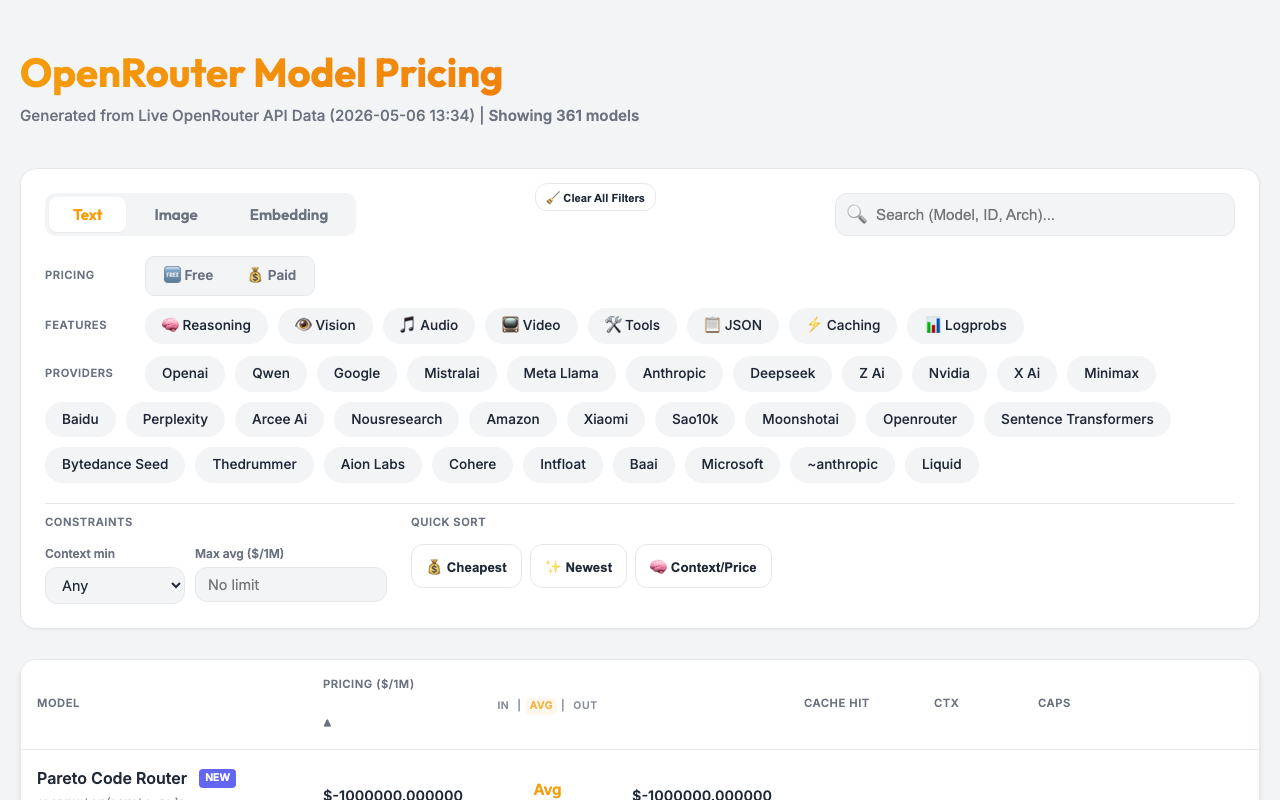
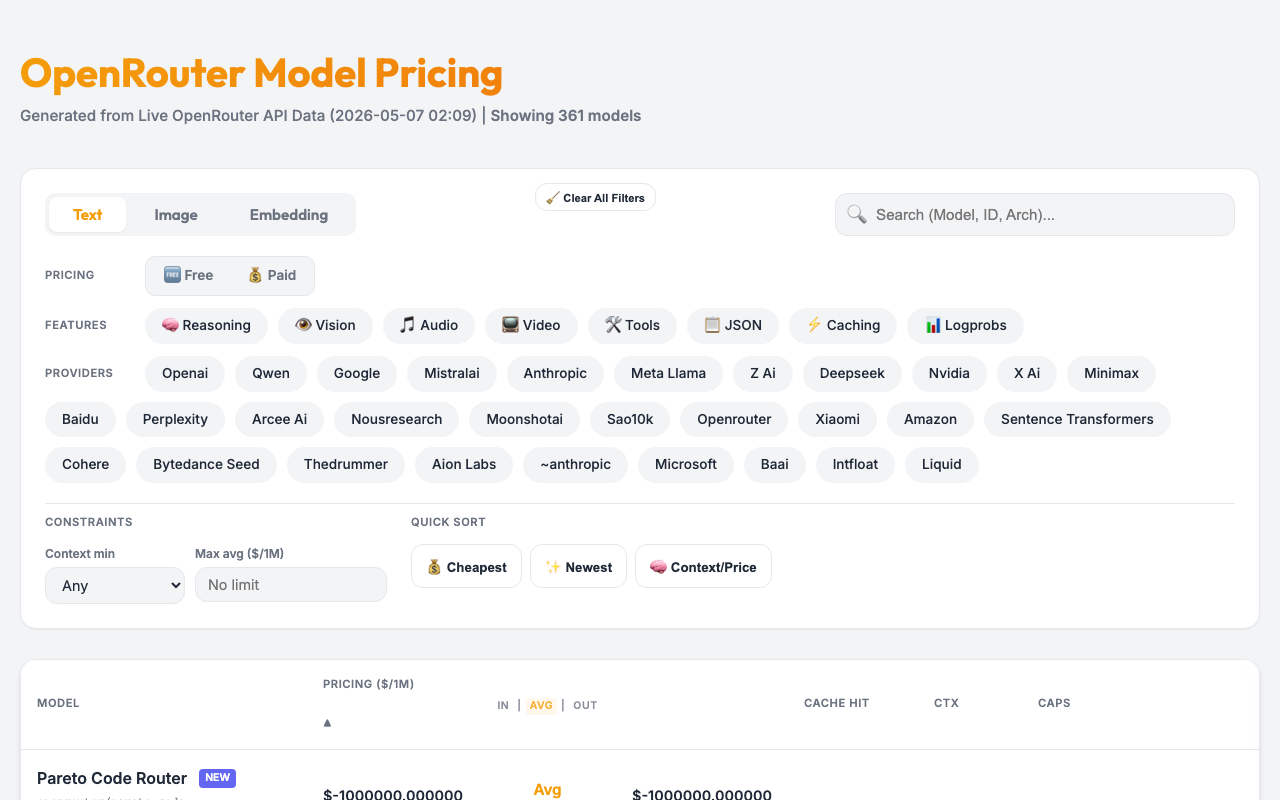
chore: automated pricing update (2026-05-07 02:09:29)
🔄 Changed Models (12): deepseek/deepseek-v3.2-speciale, moonshotai/kimi-k2.6, qwen/qwen3-coder-next, x-ai/grok-3, x-ai/grok-3-beta, x-ai/grok-3-mini, x-ai/grok-3-mini-beta, x-ai/grok-4, x-ai/grok-4-fast, x-ai/grok-4.1-fast, x-ai/grok-code-fast-1, ~moonshotai/kimi-latest

diff --git a/docs/index.html b/docs/index.html
@@ -668,7 +668,7 @@
     <div class="container">
         <header>
             <h1>OpenRouter Model Pricing</h1>
-            <div class="meta">Generated from Live OpenRouter API Data (2026-05-06 13:34)</div>
+            <div class="meta">Generated from Live OpenRouter API Data (2026-05-07 02:09)</div>
         </header>
 
         <div class="controls">
@@ -1438,7 +1438,7 @@
       "name": "MoonshotAI Kimi Latest",
       "created": 1777318428,
       "description": "This model always redirects to the latest model in the MoonshotAI Kimi family.",
-      "context_length": 262142,
+      "context_length": 262144,
       "architecture": {
         "modality": "text+image->text",
         "input_modalities": [
@@ -1452,13 +1452,13 @@
         "instruct_type": null
       },
       "pricing": {
-        "prompt": "0.00000074",
-        "completion": "0.00000349",
-        "input_cache_read": "0.00000014"
+        "prompt": "0.00000075",
+        "completion": "0.0000035",
+        "input_cache_read": "0.00000015"
       },
       "top_provider": {
-        "context_length": 262142,
-        "max_completion_tokens": 262142,
+        "context_length": 262144,
+        "max_completion_tokens": 16384,
         "is_moderated": false
       },
       "per_request_limits": null,
@@ -2688,7 +2688,7 @@
       "name": "MoonshotAI: Kimi K2.6",
       "created": 1776699402,
       "description": "Kimi K2.6 is Moonshot AI's next-generation multimodal model, designed for long-horizon coding, coding-driven UI/UX generation, and multi-agent orchestration. It handles complex end-to-end coding tasks across Python, Rust, and Go, and...",
-      "context_length": 262142,
+      "context_length": 262144,
       "architecture": {
         "modality": "text+image->text",
         "input_modalities": [
@@ -2702,13 +2702,13 @@
         "instruct_type": null
       },
       "pricing": {
-        "prompt": "0.00000074",
-        "completion": "0.00000349",
-        "input_cache_read": "0.00000014"
+        "prompt": "0.00000075",
+        "completion": "0.0000035",
+        "input_cache_read": "0.00000015"
       },
       "top_provider": {
-        "context_length": 262142,
-        "max_completion_tokens": 262142,
+        "context_length": 262144,
+        "max_completion_tokens": 16384,
         "is_moderated": false
       },
       "per_request_limits": null,
@@ -5692,7 +5692,7 @@
         "instruct_type": null
       },
       "pricing": {
-        "prompt": "0.00000012",
+        "prompt": "0.00000011",
         "completion": "0.0000008",
         "input_cache_read": "0.00000007"
       },
@@ -7893,9 +7893,9 @@
         "instruct_type": null
       },
       "pricing": {
-        "prompt": "0.0000004",
-        "completion": "0.0000012",
-        "input_cache_read": "0.0000002"
+        "prompt": "0.000000287",
+        "completion": "0.000000431",
+        "input_cache_read": "0.000000058"
       },
       "top_provider": {
         "context_length": 163840,
@@ -8228,7 +8228,7 @@
       },
       "supported_voices": null,
       "knowledge_cutoff": null,
-      "expiration_date": "2026-06-01",
+      "expiration_date": "2026-05-15",
       "links": {
         "details": "/api/v1/models/x-ai/grok-4.1-fast/endpoints"
       }
@@ -10466,7 +10466,7 @@
       },
       "supported_voices": null,
       "knowledge_cutoff": "2025-09-30",
-      "expiration_date": "2026-06-01",
+      "expiration_date": "2026-05-15",
       "links": {
         "details": "/api/v1/models/x-ai/grok-4-fast/endpoints"
       }
@@ -11136,7 +11136,7 @@
       },
       "supported_voices": null,
       "knowledge_cutoff": "2025-09-30",
-      "expiration_date": "2026-06-01",
+      "expiration_date": "2026-05-15",
       "links": {
         "details": "/api/v1/models/x-ai/grok-code-fast-1/endpoints"
       }
@@ -13145,7 +13145,7 @@
       },
       "supported_voices": null,
       "knowledge_cutoff": "2025-07-31",
-      "expiration_date": "2026-06-01",
+      "expiration_date": "2026-05-15",
       "links": {
         "details": "/api/v1/models/x-ai/grok-4-07-09/endpoints"
       }
@@ -13792,7 +13792,7 @@
       },
       "supported_voices": null,
       "knowledge_cutoff": "2025-02-28",
-      "expiration_date": "2026-06-01",
+      "expiration_date": "2026-05-15",
       "links": {
         "details": "/api/v1/models/x-ai/grok-3-mini/endpoints"
       }
@@ -13846,7 +13846,7 @@
       "default_parameters": {},
       "supported_voices": null,
       "knowledge_cutoff": "2025-02-28",
-      "expiration_date": "2026-06-01",
+      "expiration_date": "2026-05-15",
       "links": {
         "details": "/api/v1/models/x-ai/grok-3/endpoints"
       }
@@ -15212,7 +15212,7 @@
       },
       "supported_voices": null,
       "knowledge_cutoff": "2025-02-28",
-      "expiration_date": "2026-06-01",
+      "expiration_date": "2026-05-15",
       "links": {
         "details": "/api/v1/models/x-ai/grok-3-mini-beta/endpoints"
       }
@@ -15265,7 +15265,7 @@
       "default_parameters": {},
       "supported_voices": null,
       "knowledge_cutoff": "2025-02-28",
-      "expiration_date": "2026-06-01",
+      "expiration_date": "2026-05-15",
       "links": {
         "details": "/api/v1/models/x-ai/grok-3-beta/endpoints"
       }
@@ -22718,7 +22718,7 @@
     }
   ]
 };
-        window.providerOptions = ['openai', 'qwen', 'google', 'mistralai', 'meta-llama', 'anthropic', 'deepseek', 'z-ai', 'nvidia', 'x-ai', 'minimax', 'baidu', 'perplexity', 'arcee-ai', 'nousresearch', 'amazon', 'xiaomi', 'sao10k', 'moonshotai', 'openrouter', 'sentence-transformers', 'bytedance-seed', 'thedrummer', 'aion-labs', 'cohere', 'intfloat', 'baai', 'microsoft', '~anthropic', 'liquid', 'ibm-granite', '~google', '~openai', 'poolside', 'relace', 'morph', 'inclusionai', 'inflection', 'rekaai', 'tencent', 'allenai', 'thenlper', 'writer', 'undi95', 'switchpoint', 'stepfun', 'inception', '~moonshotai', 'cognitivecomputations', 'mancer', 'ai21', 'gryphe', 'kwaipilot', 'upstage', 'alpindale', 'anthracite-org', 'essentialai', 'prime-intellect', 'nex-agi', 'bytedance', 'alibaba', 'tngtech', 'alfredpros', 'deepcogito'];
+        window.providerOptions = ['openai', 'qwen', 'google', 'mistralai', 'anthropic', 'meta-llama', 'z-ai', 'deepseek', 'nvidia', 'x-ai', 'minimax', 'baidu', 'perplexity', 'arcee-ai', 'nousresearch', 'moonshotai', 'sao10k', 'openrouter', 'xiaomi', 'amazon', 'sentence-transformers', 'cohere', 'bytedance-seed', 'thedrummer', 'aion-labs', '~anthropic', 'microsoft', 'baai', 'intfloat', 'liquid', 'tencent', '~google', 'rekaai', 'ibm-granite', 'inclusionai', 'inflection', '~openai', 'relace', 'thenlper', 'allenai', 'poolside', 'morph', 'deepcogito', 'alibaba', '~moonshotai', 'switchpoint', 'stepfun', 'undi95', 'upstage', 'mancer', 'cognitivecomputations', 'writer', 'alfredpros', 'alpindale', 'prime-intellect', 'nex-agi', 'bytedance', 'gryphe', 'ai21', 'inception', 'essentialai', 'kwaipilot', 'tngtech', 'anthracite-org'];
         let currentTab = 'text';
         let sortKey = 'price_avg';
         let sortAsc = true;
